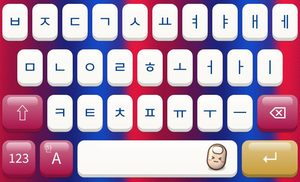
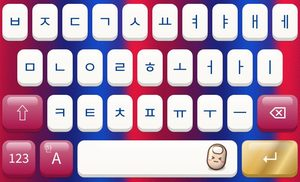
2026.11.12-13 레드 블루 금 엔터
Claude-Session: https://claude.ai/code/session_01GvSCgEXELCVfxACkb9NKF6

Changed region(s): [[0.9, 0.7692, 0.99, 0.9615], [0.78, 0.7692, 0.87, 0.9615], [0.87, 0.8791, 0.9, 0.9066]]

diff --git a/Shared/KBTheme.swift b/Shared/KBTheme.swift
@@ -55,7 +55,7 @@ struct KBTheme {
                 bg: c(30, 40, 110), key: c(250, 248, 244), special: c(170, 20, 72),
                 pressKey: c(232, 228, 222), pressSpecial: c(150, 14, 60),
                 text: c(0, 62, 146), specialText: .white,
-                accent: c(200, 156, 60), depth: 4, radius: 10, bgImage: "bg_stripe"),
+                accent: c(222, 172, 66), depth: 4, radius: 10, bgImage: "bg_stripe", metal: true),
         KBTheme(id: "race", name: "레이싱 레드",
                 bg: c(16, 18, 24), key: c(30, 30, 33), special: c(190, 18, 28),
                 pressKey: c(46, 46, 50), pressSpecial: c(160, 12, 22),

diff --git a/App/FingerErrorApp.swift b/App/FingerErrorApp.swift
@@ -96,7 +96,7 @@ struct ContentView: View {
                 }
             }
             .safeAreaInset(edge: .bottom) {
-                Text("버전 2026.11.12-12 (금 엔터) · 100개마다 리포트 · 한/A 영어 · 테마별 팻핑이 · 기념일").font(.caption2).foregroundStyle(.secondary).padding(4)
+                Text("버전 2026.11.12-13 (레드 블루 금 엔터) · 100개마다 리포트 · 한/A 영어 · 테마별 팻핑이 · 기념일").font(.caption2).foregroundStyle(.secondary).padding(4)
             }
             .navigationTitle("핑거에러")
             // 3D 젤리: 크림 배경 + 복숭아 포인트
